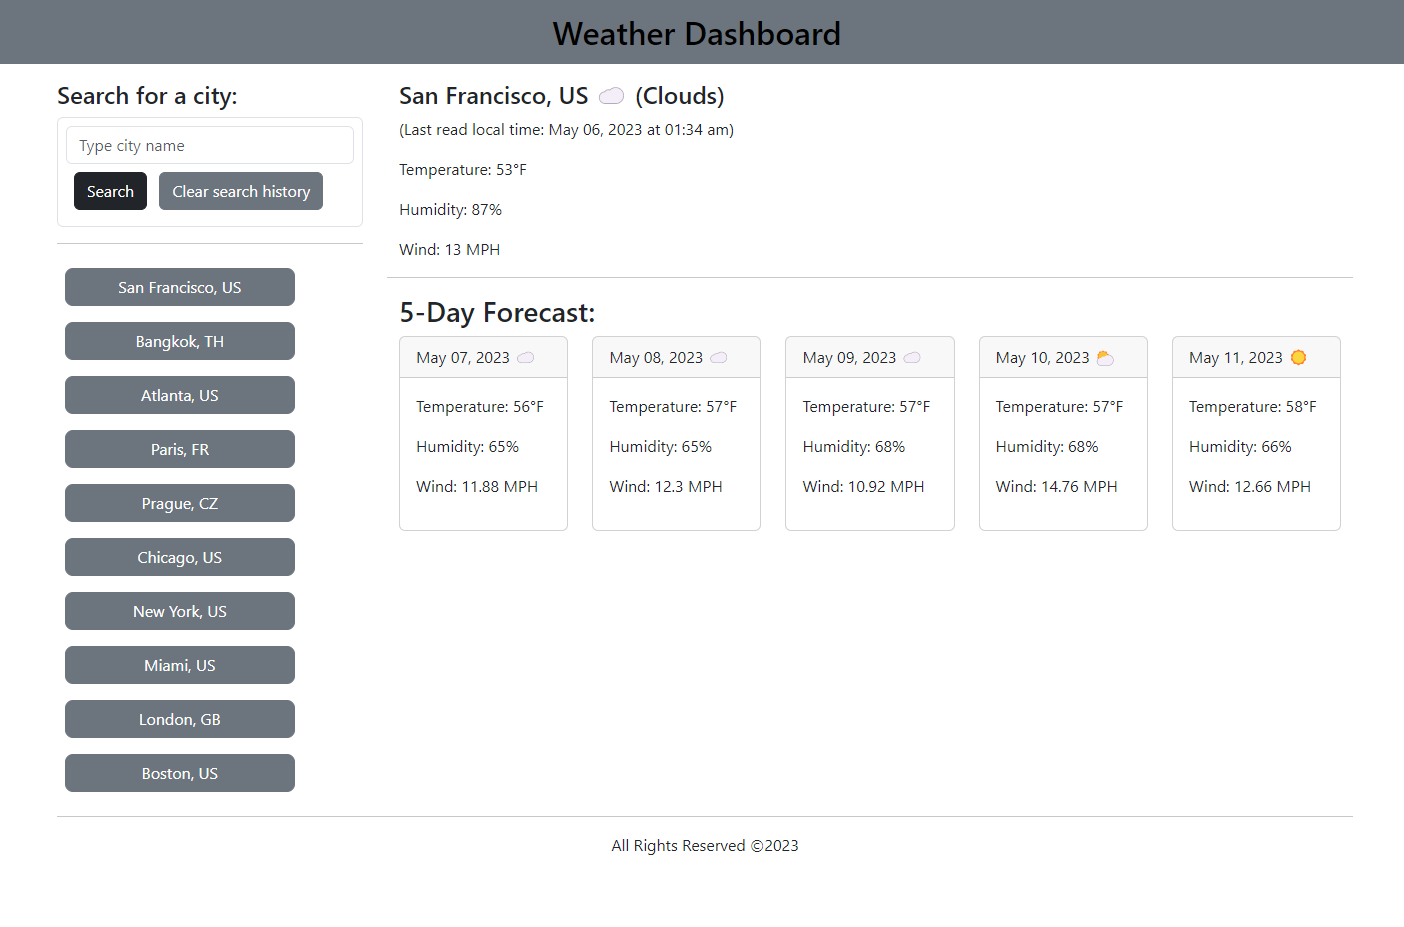
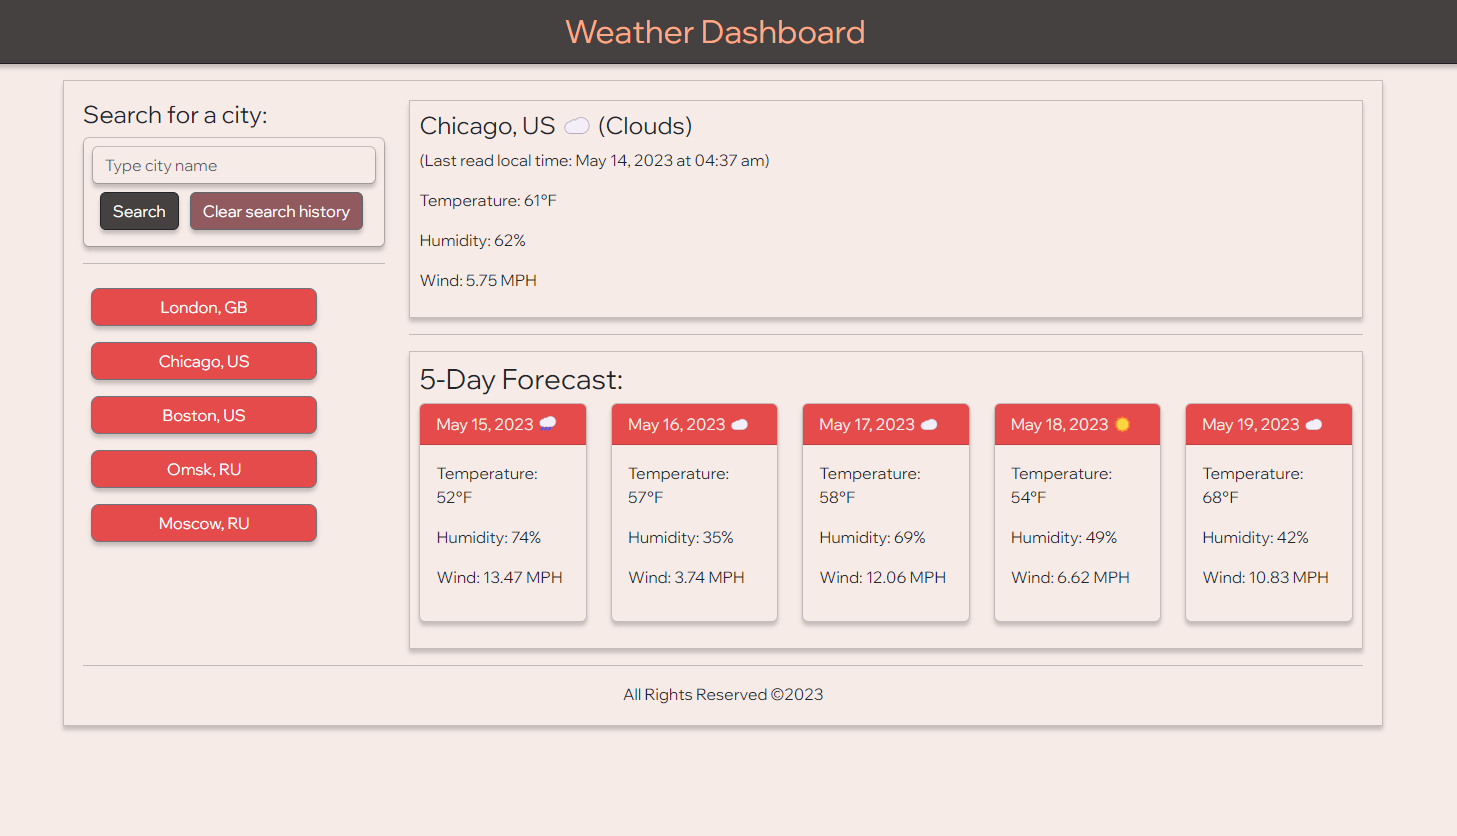
updated color scheme and made sure cards are the same size

diff --git a/assets/css/style.css b/assets/css/style.css
@@ -1,0 +1,65 @@
+* {
+    font-family: 'Wix Madefor Display', sans-serif;
+}
+
+
+.navbar {
+    background-color:#444140 !important;
+    border-bottom: 1px solid #1e1e24;
+    box-shadow: 0 4px 4px 0 rgba(0, 0, 0, 0.2);
+    
+}
+
+.navbar-brand {
+color: #ffa987 !important;
+}
+
+body {
+    background-color: #f7ebe8;
+}
+
+
+.btn {
+    box-shadow: 0 4px 4px 0 rgba(0, 0, 0, 0.2);
+}
+
+.btn-secondary {
+    background-color: #e54b4b;
+}
+
+.btn-dark {
+    background-color: #444140;
+}
+
+.btn-secondary:hover {
+    background-color: #e49090;
+}
+
+.btn-dark:hover {
+    background-color: #817c7a;
+}
+
+
+.form-control {
+    background-color: #f7ebe8;
+border:0.5px solid #1e1e243a;
+box-shadow: 0 4px 4px 0 rgba(0, 0, 0, 0.2);
+}
+
+.container {
+    padding: 1%;
+    background-color: #f7ebe8;
+        border: 0.5px solid #1e1e243a;
+        box-shadow: 0 4px 4px 0 rgba(0, 0, 0, 0.2);
+}
+
+.card {
+background-color: #f7ebe8;
+    border: 0.5px solid #1e1e243a;
+    box-shadow: 0 4px 4px 0 rgba(0, 0, 0, 0.2);
+}
+
+.card-header {
+    background-color: #e54b4b;
+    color: #f7ebe8;
+}

diff --git a/assets/js/script.js b/assets/js/script.js
@@ -130,7 +130,7 @@ async function renderFiveDays(latInfoPassed, lonInfoPassed) {
   const responseTwo = await fetch(getForecastURL);
   let dataTwo = await responseTwo.json();
 
-  //console.log(dataTwo);
+  console.log(dataTwo);
 
   let indexOfNextDay = 0;
   for (let j = 0; j < dataTwo.list.length; j++) {
@@ -254,6 +254,13 @@ async function checkWeather(cityInput) {
     .add(1, "day")
     .startOf("day")
     .format("YYYY-MM-DD HH:mm:ss");
+    
+//   timeOfReadNextDay = dayjs((data.dt + data.timezone) * 1000)
+//     .add(1, "day")
+//     .format("YYYY-MM-DD");
+
+//     timeOfReadNextDay = timeOfReadNextDay + " 12:00:00";
+// console.log(timeOfReadNextDay);
 
   //rendering today's weather to the webpage
   const cityDate = $("<h2>")

diff --git a/index.html b/index.html
@@ -7,7 +7,10 @@
     <meta name="viewport" content="width=device-width, initial-scale=1.0">
     <link href="https://cdn.jsdelivr.net/npm/bootstrap@5.3.0-alpha3/dist/css/bootstrap.min.css" rel="stylesheet"
         integrity="sha384-KK94CHFLLe+nY2dmCWGMq91rCGa5gtU4mk92HdvYe+M/SXH301p5ILy+dN9+nJOZ" crossorigin="anonymous">
-    <!-- <link rel="stylesheet" href="./assets/css/style.css" /> -->
+    <link rel="preconnect" href="https://fonts.googleapis.com">
+    <link rel="preconnect" href="https://fonts.gstatic.com" crossorigin>
+    <link href="https://fonts.googleapis.com/css2?family=Wix+Madefor+Display&display=swap" rel="stylesheet">
+    <link rel="stylesheet" href="./assets/css/style.css" />
     <title>Weather Dashboard</title>
 </head>
 

diff --git a/README.md b/README.md
@@ -29,6 +29,7 @@ Individual weather forecast example:
 - Bootstrap was used for styling.
 - Day.js library was used for date manipulations.
 - Open Weather API (https://openweathermap.org/api) was used for weather forecast.
+- Color palette generated by Coolors (https://coolors.co/)
 
 ## License
 
